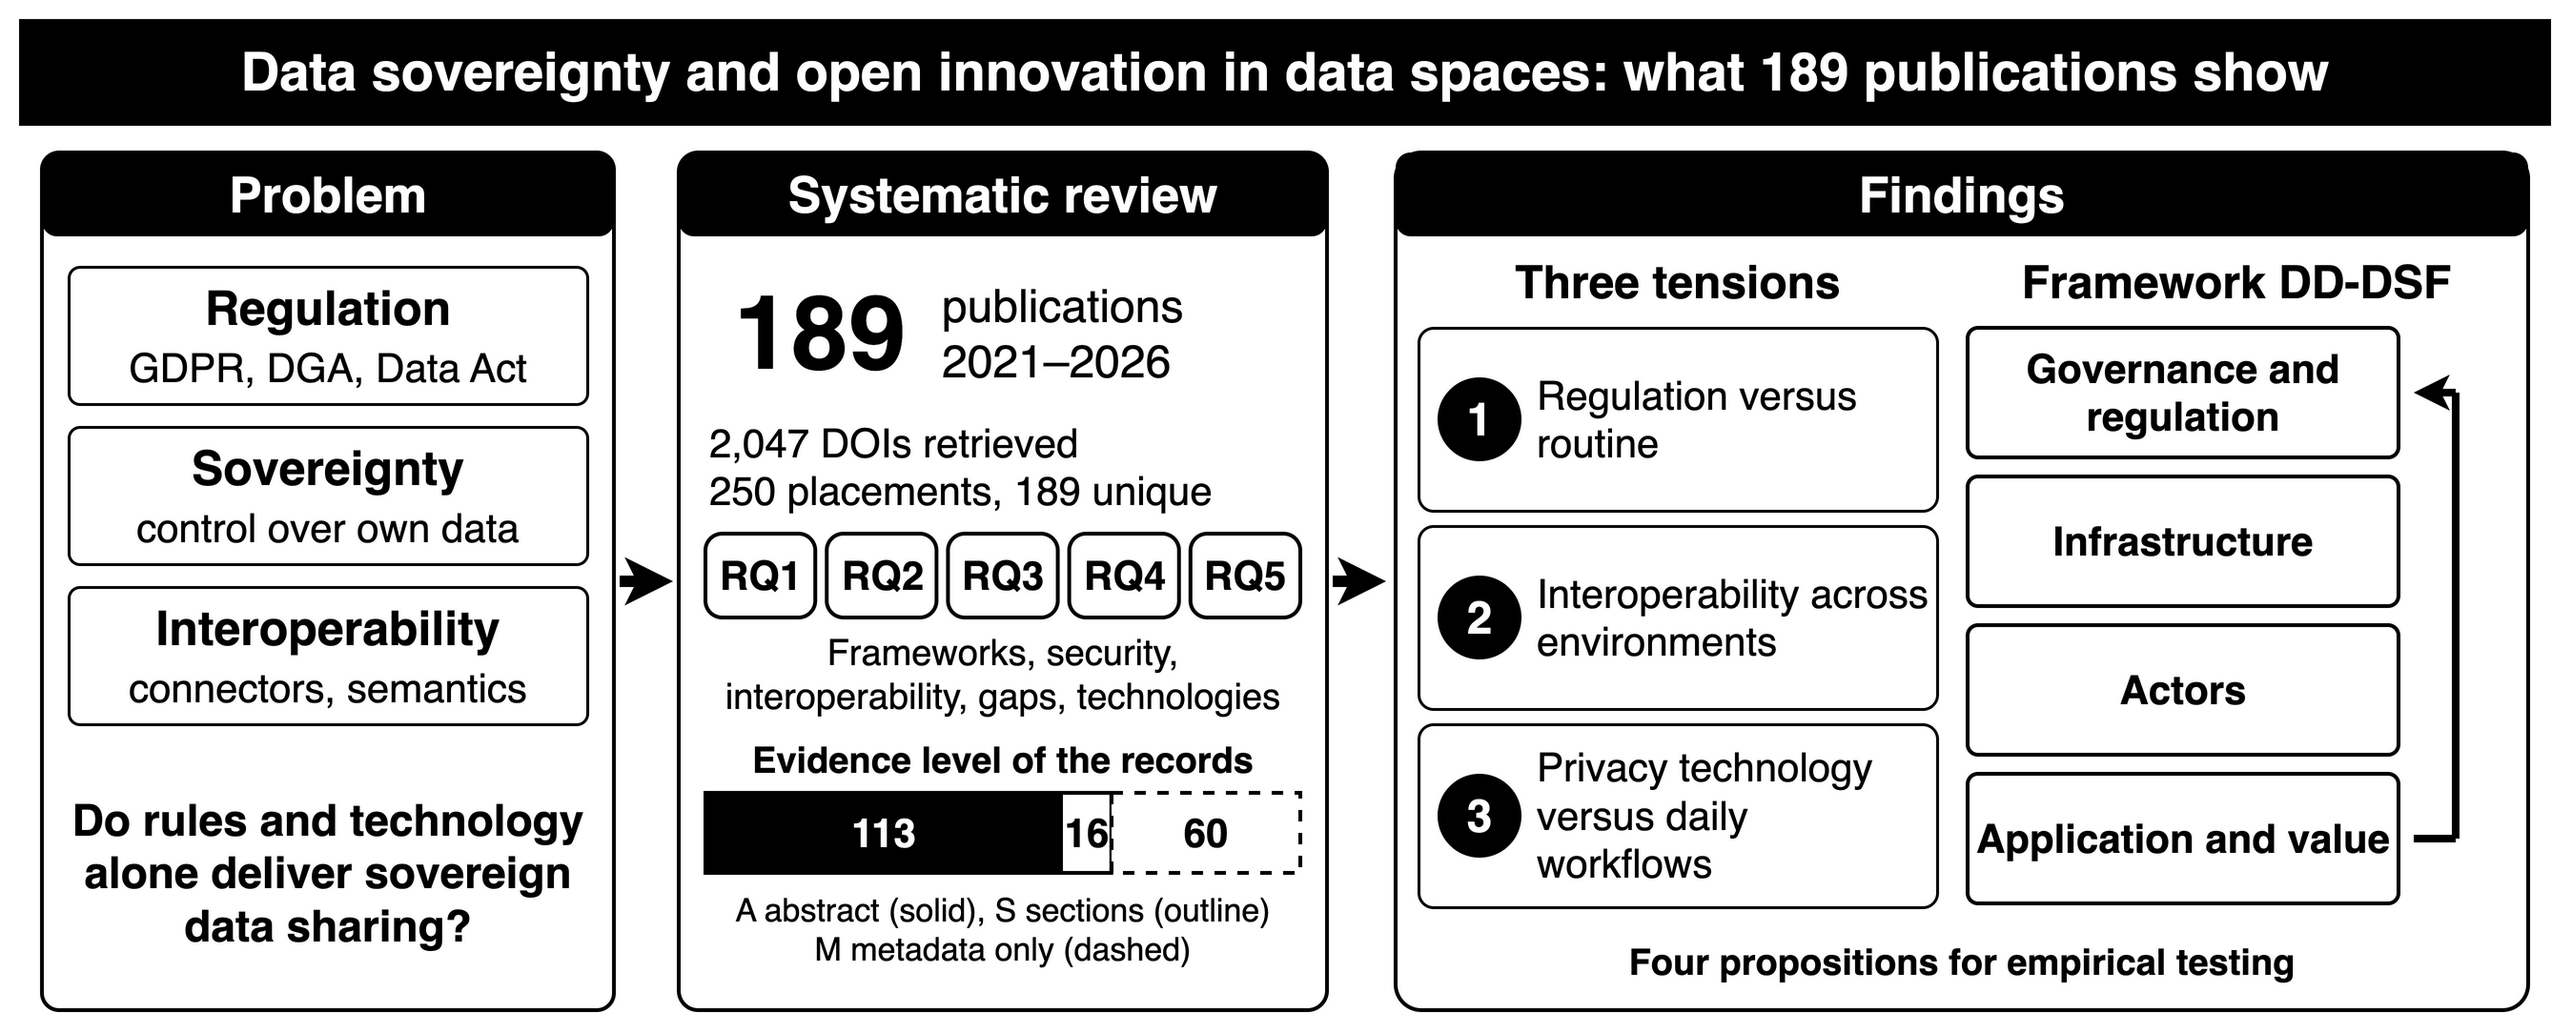
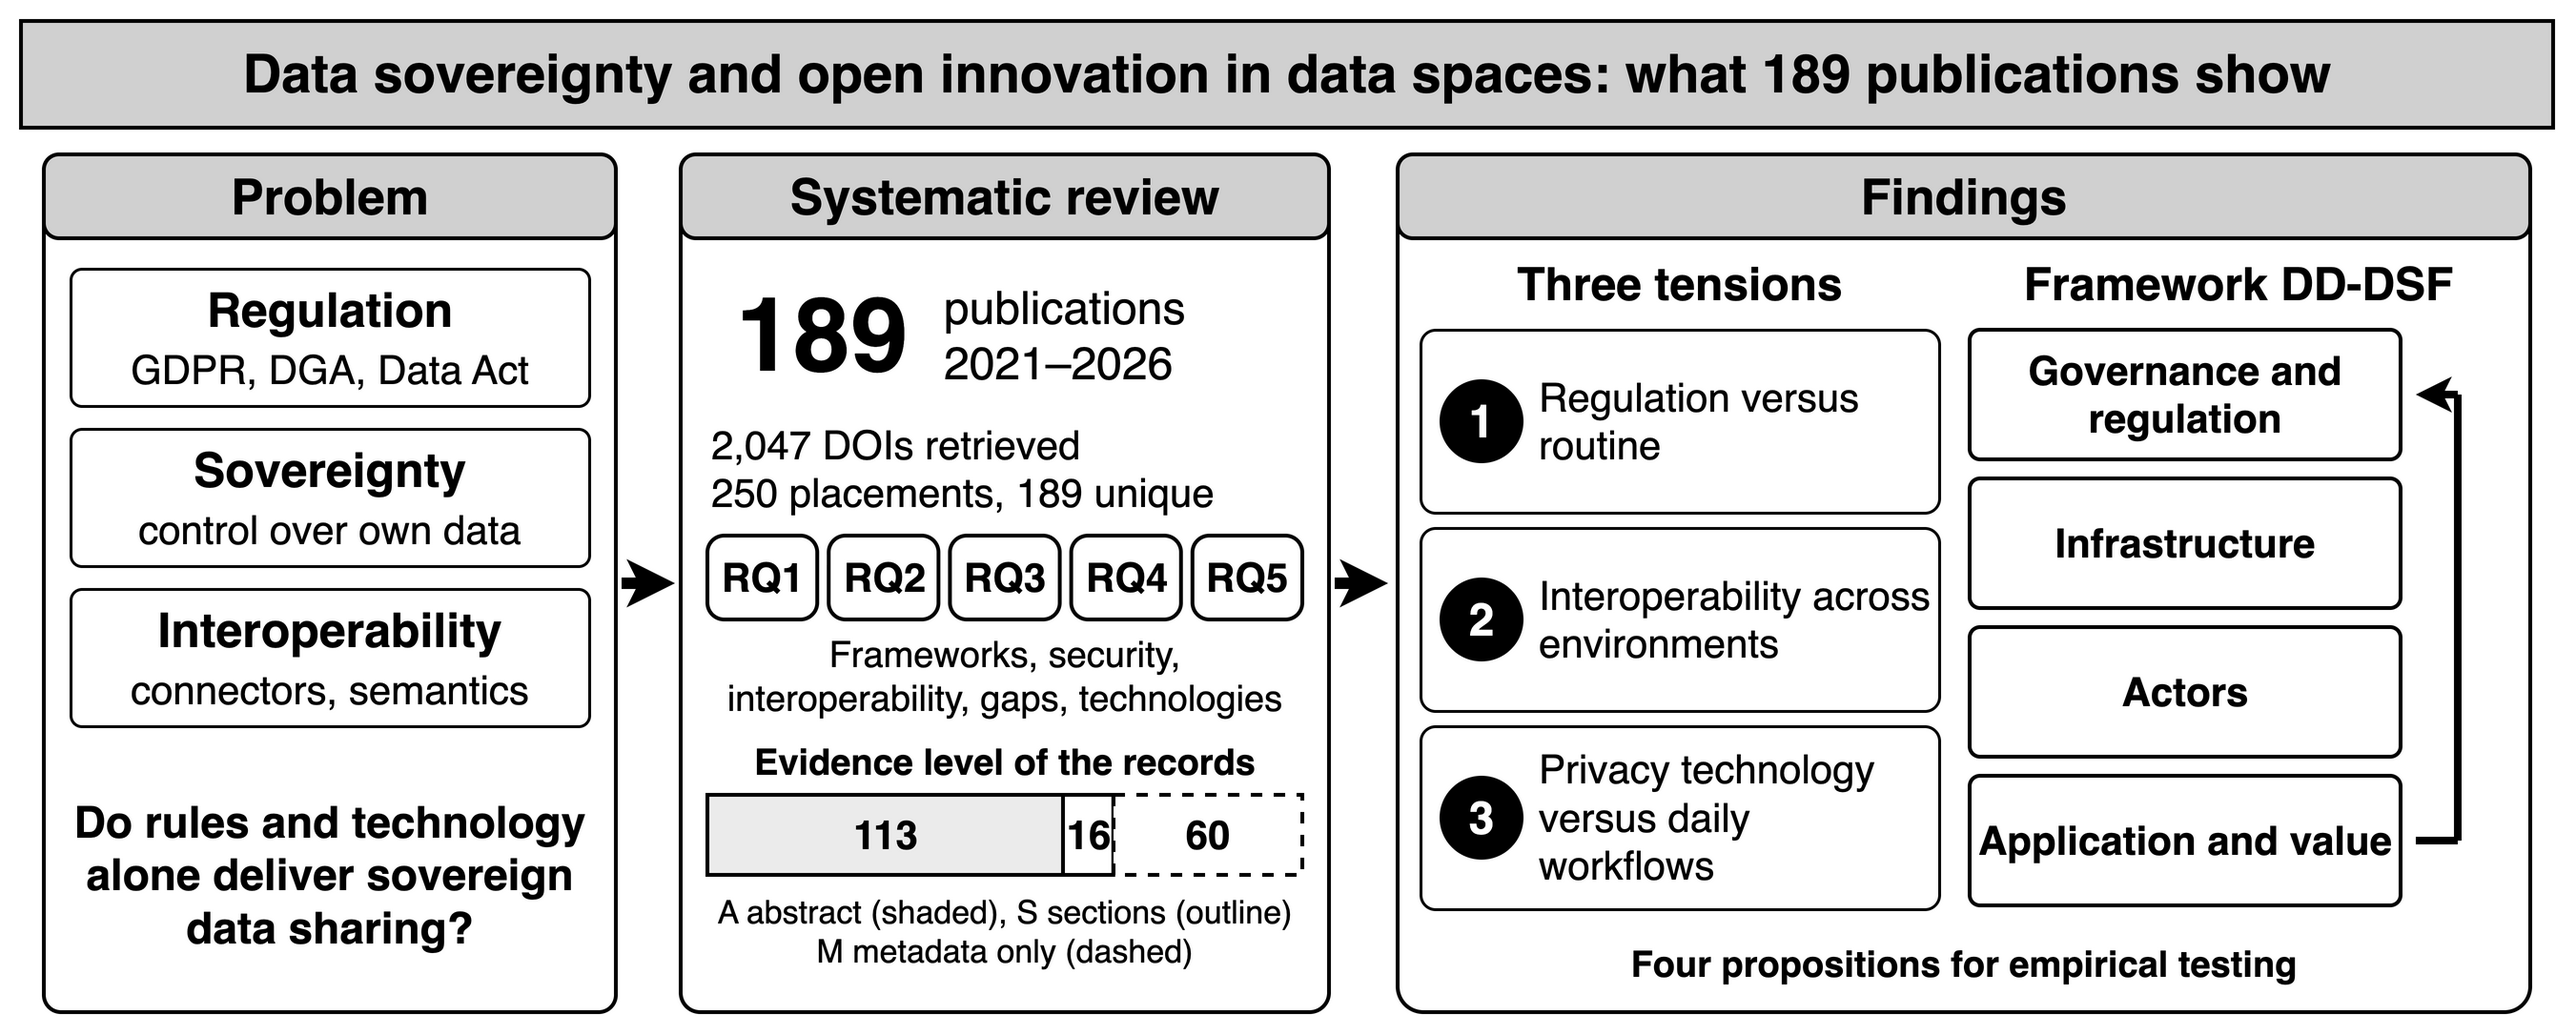
Graphical abstract: light grey header boxes, very light grey evidence segment

diff --git a/src/05_graphical_abstract.py b/src/05_graphical_abstract.py
@@ -22,18 +22,19 @@ ev = num["evidence_total"]
 # No colour: pure black and white. Groups are told apart by labels, solid versus
 # outlined versus dashed fills, and position, never by tone.
 K, WH = "#000000", "#ffffff"
+LIGHT, VLIGHT = "#D0D0D0", "#EBEBEB"   # header boxes, evidence segment A
 W, H = 1328, 531
 g = Diagram(W, H, "Graphical abstract")
 
 # header band
-g.rect(0, 0, W, 56, fill=K, text="Data sovereignty and open innovation in data spaces: "
-       "what 189 publications show", size=28, color=WH, bold=True)
+g.rect(0, 0, W, 56, fill=LIGHT, stroke=K, stroke_w=2, text="Data sovereignty and open innovation in data spaces: "
+       "what 189 publications show", size=28, color=K, bold=True)
 
 
 def panel(x, w, title):
     g.rect(x, 70, w, 450, fill=WH, stroke=K, stroke_w=2, rounded=True, arc=3)
-    g.rect(x, 70, w, 44, fill=K, text=title, size=26, color=WH, bold=True,
-           rounded=True, arc=18)
+    g.rect(x, 70, w, 44, fill=LIGHT, stroke=K, stroke_w=2, text=title, size=26, color=K,
+           bold=True, rounded=True, arc=18)
 
 
 def chevron(x, y):
@@ -75,14 +76,14 @@ bx, bw = P2X + 14, P2W - 28
 g.rect(bx, 376, bw, 26, fill="none", text="Evidence level of the records", size=19,
        color=K, bold=True)
 x = bx
-# A solid black, S white with solid outline, M white with dashed outline
-for k, fill, tc, dashed in (("A", K, WH, False), ("S", WH, K, False), ("M", WH, K, True)):
+# A very light grey, S white with solid outline, M white with dashed outline
+for k, fill, tc, dashed in (("A", VLIGHT, K, False), ("S", WH, K, False), ("M", WH, K, True)):
     w = bw * ev[k] / tot
     g.rect(x, 406, w, 42, fill=fill, text=f"{ev[k]}", size=21, bold=True, color=tc,
            stroke=K, stroke_w=2, dashed=dashed)
     x += w
 g.rect(bx, 452, bw, 52, fill="none",
-       text="A abstract (solid), S sections (outline)<br>M metadata only (dashed)",
+       text="A abstract (shaded), S sections (outline)<br>M metadata only (dashed)",
        size=17, color=K)
 chevron(P2X + P2W + 3, 295)
 
